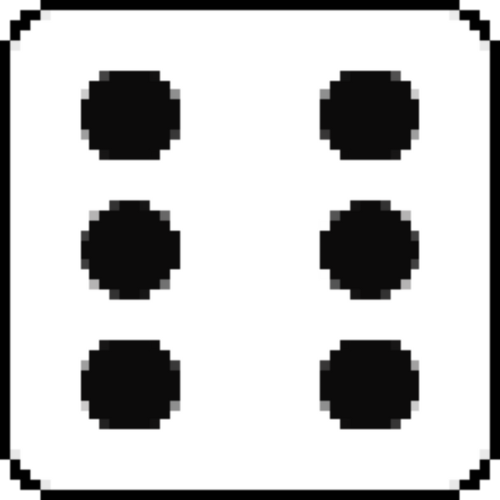
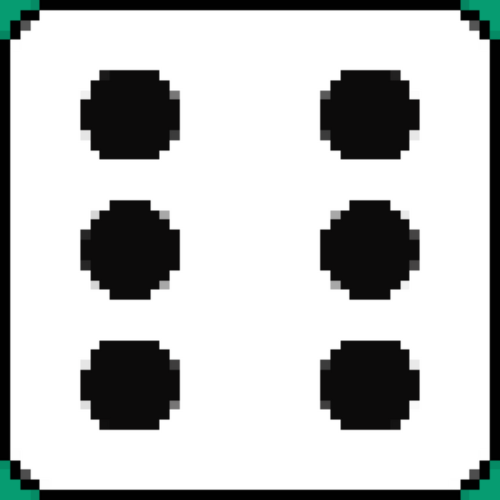
Replaced die sprites
added chips, cigar, and card sprites

added roll button

diff --git a/gui.py b/gui.py
@@ -10,4 +10,23 @@ class GUI():
         self.root.config(bg='#069c71', pady=1, padx=10)
         self.root.resizable(False,False) #change this to ratio (?)
 
+        self.current_die = PhotoImage(file=r'images\1.png').subsample(9,9)
+        self.die_display = Label(image=self.current_die, bg='#069c71')
+        self.die_display.grid(row=2, column=2)
+
+        self.chips = PhotoImage(file='images\chips.png').subsample(3,3)
+        self.chips_label = Label(image=self.chips, bg='#069c71')
+        self.chips_label.grid(row=4, column=1)
+
+        self.cigar = PhotoImage(file='images\cigar.png').subsample(3, 3)
+        self.cigar_label = Label(image=self.cigar, bg='#069c71')
+        self.cigar_label.grid(row=4, column=2)
+
+        self.cards = PhotoImage(file='images\cards.png').subsample(3, 3)
+        self.cards_label = Label(image=self.cards, bg='#069c71')
+        self.cards_label.grid(row=4, column=3)
+
+        self.roll_button = Button(text="Roll", command=lambda: self.roll_dice)
+        self.roll_button.grid(row=3, column=2)
+
         self.root.mainloop()
